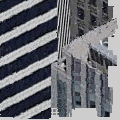
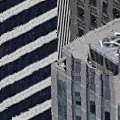
fix border bugs

diff --git a/TextureCompress/trackFeatures.cpp b/TextureCompress/trackFeatures.cpp
@@ -40,7 +40,7 @@ static float _interpolate(
 	float* ptr = img->data + (img->ncols * yt) + xt;
 
 #ifndef _DNDEBUG
-	if (xt < 0 || yt < 0 || xt >= img->ncols - 1 || yt >= img->nrows - 1) {
+	if (xt < 0 || yt < 0 || xt > img->ncols - 1 || yt > img->nrows - 1) {
 		fprintf(stderr, "(xt,yt)=(%d,%d)  imgsize=(%d,%d)\n"
 			"(x,y)=(%f,%f)  (ax,ay)=(%f,%f)\n",
 			xt, yt, img->ncols, img->nrows, x, y, ax, ay);
@@ -48,7 +48,7 @@ static float _interpolate(
 	}
 #endif
 
-	assert(xt >= 0 && yt >= 0 && xt <= img->ncols - 2 && yt <= img->nrows - 2);
+	assert(xt >= 0 && yt >= 0 && xt <= img->ncols - 1 && yt <= img->nrows - 1);
 
 	float res = ((1 - ax) * (1 - ay) * *ptr +
 		ax * (1 - ay) * *(ptr + 1) +
@@ -1030,11 +1030,11 @@ static int myTrackFeatureAffine(
 			y1 - hh < 0.0f || nr1 - (y1 + hh) < one_plus_eps ||
 			ul_x < 0.0f || nc2 - (ul_x) < one_plus_eps ||
 			ll_x < 0.0f || nc2 - (ll_x) < one_plus_eps ||
-			ur_x < 0.0f || nc2 - (ur_x) < one_plus_eps ||
-			lr_x < 0.0f || nc2 - (lr_x) < one_plus_eps ||
-			ul_y < 0.0f || nr2 - (ul_y) < one_plus_eps ||
+			ur_x < 0.0f || nc2 - (ur_x) + 1 < one_plus_eps ||
+			lr_x < 0.0f || nc2 - (lr_x) + 1 < one_plus_eps ||
+			ul_y < 0.0f || nr2 - (ul_y) + 1 < one_plus_eps ||
 			ll_y < 0.0f || nr2 - (ll_y) < one_plus_eps ||
-			ur_y < 0.0f || nr2 - (ur_y) < one_plus_eps ||
+			ur_y < 0.0f || nr2 - (ur_y) + 1 < one_plus_eps ||
 			lr_y < 0.0f || nr2 - (lr_y) < one_plus_eps) {
 			status = KLT_OOB;
 			break;
@@ -1114,14 +1114,15 @@ static int myTrackFeatureAffine(
 		float lr_x_new = *Axx * hw + *Axy * (-hh) + *x2;
 		float lr_y_new = *Ayx * hw + *Ayy * (-hh) + *y2;
 
-		if (
+		if (x1 - hw < 0.0f || nc1 - (x1 + hw) < one_plus_eps ||
+			y1 - hh < 0.0f || nr1 - (y1 + hh) < one_plus_eps ||
 			ul_x_new < 0.0f || nc2 - (ul_x_new) < one_plus_eps ||
 			ll_x_new < 0.0f || nc2 - (ll_x_new) < one_plus_eps ||
-			ur_x_new < 0.0f || nc2 - (ur_x_new) < one_plus_eps ||
-			lr_x_new < 0.0f || nc2 - (lr_x_new) < one_plus_eps ||
-			ul_y_new < 0.0f || nr2 - (ul_y_new) < one_plus_eps ||
+			ur_x_new < 0.0f || nc2 - (ur_x_new) + 1 < one_plus_eps ||
+			lr_x_new < 0.0f || nc2 - (lr_x_new) + 1 < one_plus_eps ||
+			ul_y_new < 0.0f || nr2 - (ul_y_new) + 1 < one_plus_eps ||
 			ll_y_new < 0.0f || nr2 - (ll_y_new) < one_plus_eps ||
-			ur_y_new < 0.0f || nr2 - (ur_y_new) < one_plus_eps ||
+			ur_y_new < 0.0f || nr2 - (ur_y_new) + 1 < one_plus_eps ||
 			lr_y_new < 0.0f || nr2 - (lr_y_new) < one_plus_eps) {
 			status = KLT_OOB;
 			break;
@@ -1163,8 +1164,8 @@ static int myTrackFeatureAffine(
 	_am_free_matrix(a);
 
 	/* Check whether window is out of bounds */
-	if (*x2 - hw < 0.0f || nc2 - (*x2 + hw) < one_plus_eps ||
-		*y2 - hh < 0.0f || nr2 - (*y2 + hh) < one_plus_eps)
+	if (*x2 - hw < 0.0f || nc2 - (*x2 + hw) + 1 < one_plus_eps ||
+		*y2 - hh < 0.0f || nr2 - (*y2 + hh) + 1 < one_plus_eps)
 		status = KLT_OOB;
 
 	///* Check whether feature point has moved to much during iteration*/
@@ -1915,7 +1916,6 @@ void myTrackAffine(
 		featurelist->feature[indx]->aff_x = xlocout;
 		featurelist->feature[indx]->aff_y = ylocout;
 		featurelist->feature[indx]->val = val;
-
 
 	}
 }

diff --git a/TextureCompress/main.cpp b/TextureCompress/main.cpp
@@ -16,7 +16,7 @@ using namespace cv;
 
 
 int blockSize = 12;
-float NMSth = 10.0f;
+float NMSth = 50.0f;
 int matchNum = 0;
 vector<Block*> blocks;
 vector<Block*> seedBlocks;
@@ -51,7 +51,7 @@ void FindingSimi()
     vector<vector<pair<pair<float, float>, pair<float,int> > > >NMSlist(blocks.size()), affineList(blocks.size());
 
     for (int i = 0; i < testFl->nFeatures; i++){
-        if (testFl->feature[i]->val != KLT_OOB && testFl->feature[i]->val != KLT_LARGE_RESIDUE) {
+        if (testFl->feature[i]->val == KLT_TRACKED) {
             //Apply NMS
             NMSlist[testFl->feature[i]->block_index].push_back(make_pair(make_pair(testFl->feature[i]->aff_x, testFl->feature[i]->aff_y), make_pair(testFl->feature[i]->error, i)));
         }
@@ -97,7 +97,7 @@ void FindingSimi()
 
 void CreatingCharts()
 {
-    vector<set<pair<int, int> > >inverseCover(blocks.size());
+    vector<set<pair<int, int> > >tmpCover(blocks.size()), inverseCover(blocks.size()); // blockIndex & matchIndex
     vector<set<int> >candidateRegion(blocks.size());
     set<int> Ie,epitome;
 
@@ -115,15 +115,27 @@ void CreatingCharts()
                     int tmpCol = (int)(m[0] * col + m[1] * row + m[2]);
                     int tmpRow = (int)(m[3] * col + m[4] * row + m[5]);
                     int coverIndex = tmpRow / blockSize * colBlockNum + tmpCol / blockSize;
-                    inverseCover[coverIndex].insert(make_pair(index, i));
+                    tmpCover[coverIndex].insert(make_pair(index, i));
                 }
             }
         }
     }
-
+    // make sure one block's match show only once
+    for (int index = 0; index < blocks.size(); index++) {
+        int preIndex = -1;
+        for (set<pair<int, int> >::iterator it = tmpCover[index].begin(); it != tmpCover[index].end(); it++) {
+            if (it->first == preIndex)
+                continue;
+            else {
+                preIndex = it->first;
+                inverseCover[index].insert(*it);
+            }
+        }
+    }
     // compute candidateRegion
     for (int index = 0; index < blocks.size(); index++) {
         for (set<pair<int, int> >::iterator it = inverseCover[index].begin(); it != inverseCover[index].end(); it++) {
+            
             Mat M = blocks[it->first]->finalMatchList[it->second].getMatrix();
             double* m = M.ptr<double>();
             for (int row = -blockSize / 2; row < blockSize / 2; row++) {
@@ -186,7 +198,7 @@ int main(int argc, char* argv[]) {
     FindingSimi();
 
     // Reconstructed Test
-    Mat img = imread(imgPath, 1);
+    /*Mat img = imread(imgPath, 1);
     Mat imgTest(img.rows, img.cols, CV_8UC3);
     namedWindow("Test");
 
@@ -204,11 +216,13 @@ int main(int argc, char* argv[]) {
                     }
                 }
             }
+            imshow("image", imgTest);
+            waitKey();
         }
     }
     imwrite("..\\Resource\\test.png", imgTest);
     imshow("image", imgTest);
-    waitKey();
+    waitKey();*/
 
     CreatingCharts();
     
